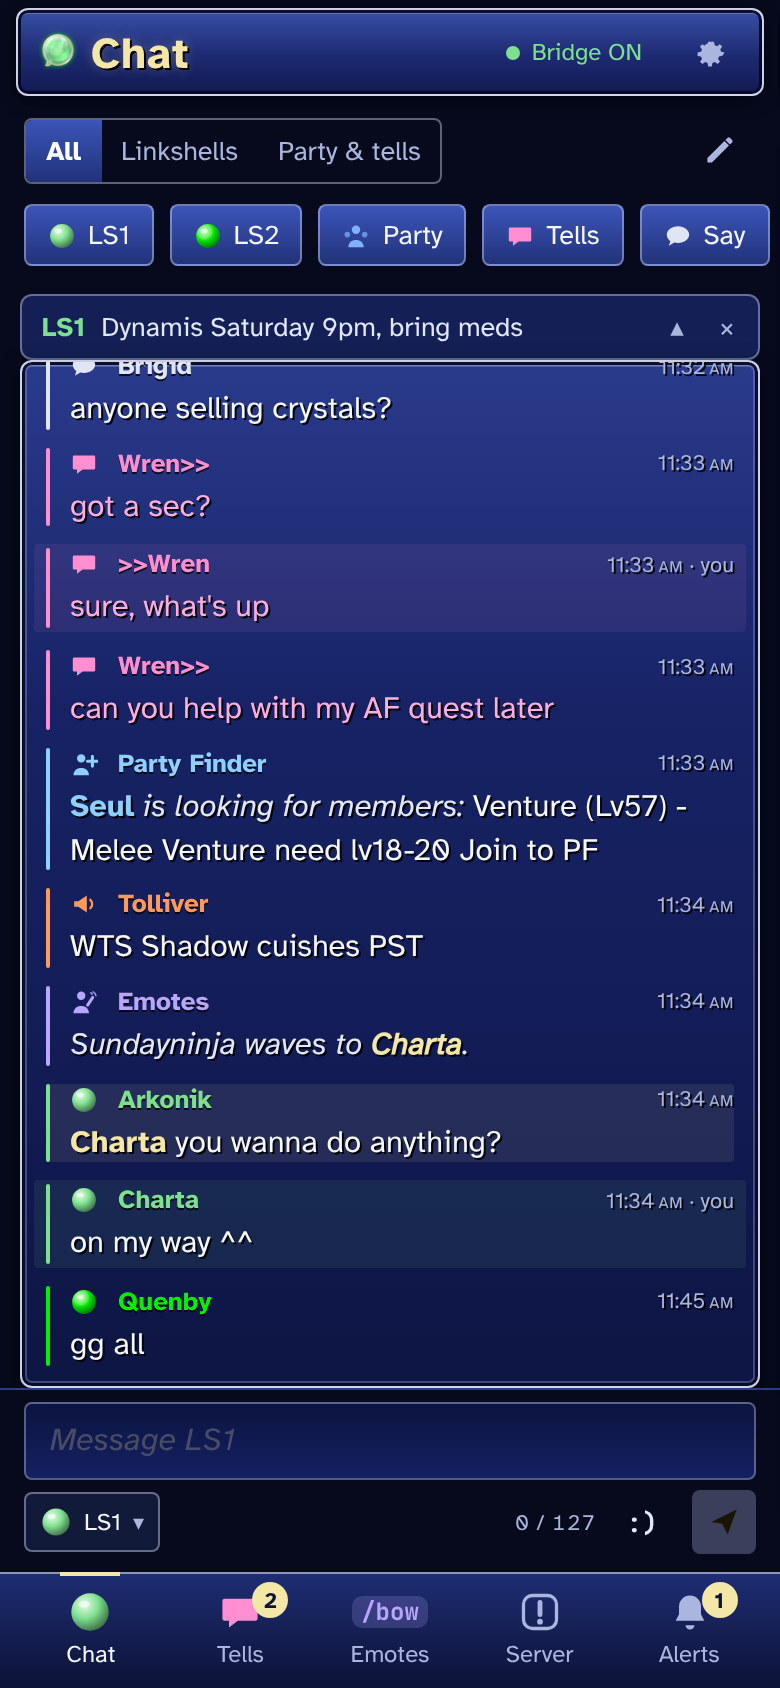
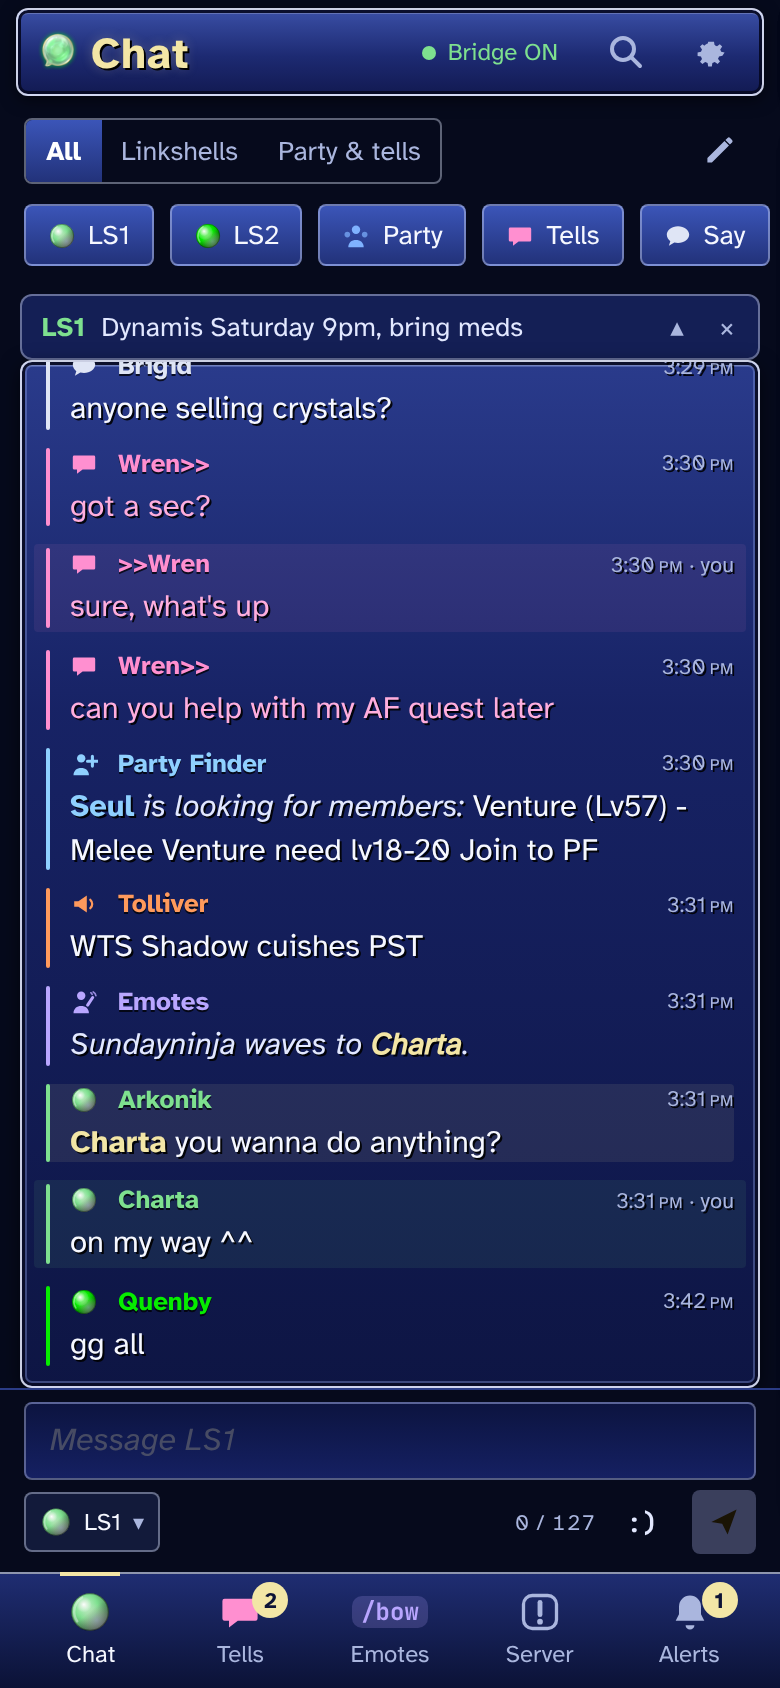
Release prep for 1.1.2: changelog dated, README note and New in 1.1.2, 1.1.1 marked as replaced, fresh screenshots
Claude-Session: https://claude.ai/code/session_01EQHJw41hfgAS7SckUKE71o

diff --git a/tools/screenshots.js b/tools/screenshots.js
@@ -10,12 +10,14 @@ async function page(browser, prefs) {
   const ctx = await browser.newContext({ viewport: { width: W, height: H }, deviceScaleFactor: 2 });
   const p = await ctx.newPage();
   await p.addInitScript(pr => {
-    try { localStorage.setItem("pcxi", JSON.stringify(Object.assign({ savedAt: Date.now() + 1e9, tipSeen: true }, pr))); } catch (e) {}
+    try { localStorage.setItem("pcxi", JSON.stringify(Object.assign({ savedAt: Date.now() + 1e9, tipSeen: true, holdTip: true }, pr))); } catch (e) {}
   }, prefs);
   await p.goto(url);
   await p.waitForSelector("#tab-chat .top");
   await p.evaluate(() => document.fonts.ready);
   await p.waitForTimeout(800);
+  // README shots: dismiss the one-time "Updated" note (each shot is a fresh browser that looks like an upgrade).
+  const ok = await p.$("[data-updok]"); if (ok) { await ok.click(); await p.waitForTimeout(300); }
   return p;
 }
 async function shot(p, name) { await p.waitForTimeout(400); await p.screenshot({ path: out + "/" + name + ".png" }); console.log("  " + name + ".png"); }

diff --git a/README.md b/README.md
@@ -1,9 +1,9 @@
 <p align="center"><img src="docs/header.png" alt="phonechatXI" width="640"></p>
 
 > [!NOTE]
-> **v1.1.0 was reviewed by CatsEyeXI staff and approved** (November 2026).
+> **v1.1.2 is the current version.** It's going through CatsEyeXI's new addon approval process. **v1.1.0 was reviewed by CatsEyeXI staff and approved** (November 2026), and until 1.1.2 is approved, [v1.1.0](https://github.com/charta7/phonechatXI/releases/tag/v1.1.0) is the approved version.
 >
-> **v1.1.1 is waiting on CatsEyeXI approval.** Staff are setting up a new process for approving addons, and 1.1.1 will go through it. It builds on 1.1.0 with fixes, looks and a few phone-side features, reads nothing new from the game, and sends the same lines plus one read-only command from the server's own list (`!moolix`). Until it's approved, [v1.1.0](https://github.com/charta7/phonechatXI/releases/tag/v1.1.0) is the approved version. See the [changelog](CHANGELOG.md).
+> What 1.1.2 changes on the game side, plainly: Auction House sales now reach the phone (from the same server notices it already reads; no new message mode), there's one new command from the server's own list (`!bond`), and every `!` command asks before it sends. Everything else is on the phone. See the [changelog](CHANGELOG.md).
 
 # phonechatXI
 
@@ -39,8 +39,8 @@ Tested on a Steam Deck and on Windows 11, with an iPhone.
 - Views, like the game's chat windows. All, Linkshells and Party & tells are built in, and you can add your own.
 - A Tells tab with a thread per person.
 - Tap a name to start a tell, or a line to reply on its channel. Nothing sends until you press send.
-- Search (1.1.2, not released yet): the magnifier on Chat or Tells finds a name or a word in every channel at once, with a chip per channel to narrow it down. Tap a result to go to that moment, then "Back to live". It only looks through chat the page has already loaded.
-- Catching up (1.1.2, not released yet): a "New" line marks where you left off. Long-press a line to copy it or search for who said it. Tap a mention in Alerts to go to it.
+- Search: the magnifier on Chat or Tells finds a name or a word in every channel at once, with a chip per channel to narrow it down. Tap a result to go to that moment, then "Back to live". It only looks through chat the page has already loaded.
+- Catching up: a "New" line marks where you left off. Long-press a line to copy it or search for who said it. Tap a mention in Alerts to go to it.
 - Linked items (`{{Suppanomimi}}`): on a touch screen, long-press the line and pick "Search BG-Wiki for Suppanomimi" (a tap on the line replies, as usual). On a computer, click the item. Turn on BG-Wiki for all auto-translate in Settings to get the same search for every auto-translate phrase, up to 3 per line.
 - Web addresses in chat show as plain text and never open on a tap. On a touch screen, long-press the line for "Open <site>". It always asks first and shows the site name in bold with the full address under it, so a look-alike stands out. Only `http://`, `https://` and `www.` addresses are offered, never ones with a login in them.
 - Mentions: your name or nicknames (up to 3) are highlighted in chat and collected in Alerts. Emotes and yell don't count.
@@ -50,7 +50,7 @@ Tested on a Steam Deck and on Windows 11, with an iPhone.
 - An Alerts tab: a card per VNM or HVNM with a 10 minute countdown from Populox's first message, then POP!, plus your mentions, Auction House sales, server notices and (if you turn it on) bazaar visits. VNM cards, notices and bazaar visits clear with ×.
 - A `:)` button with your own list of text emoticons. Set them in Settings, or keep the eight defaults.
 - The keyboard doesn't capitalize or autocorrect, so game words like Jeuno or Windurst come through as you typed them. Both can be turned on in Settings.
-- Four skins (Classic, Night, Game and Yunas, an unofficial look inspired by YunaUI), two fonts, a compact layout, text size, 12 or 24-hour time and per-channel colors. Settings are saved on the bridge and can be exported (without your mention names).
+- Four skins (Classic, Night, Game and Yunas, an unofficial look inspired by YunaUI). Each skin keeps its own look (font, layout, times, message colors, channel colors), with a live preview in Settings and a reset back to how it shipped. Text size and 12 or 24-hour time apply on every skin. Settings are saved on the bridge and can be exported (without your mention names).
 
 <p>
   <img src="docs/screenshots/skin-classic.png" width="180" alt="Classic skin">
@@ -79,15 +79,16 @@ Tested on a Steam Deck and on Windows 11, with an iPhone.
 
 What it can send is a fixed list: `/l`, `/l2`, `/p`, `/t`, `/s`, `/sh`, the stock emotes, and the `!` commands in [`bridge/commands.json`](bridge/commands.json). The bridge checks every line, and the addon checks it again against the same list right before typing it. The addon's check is `allowed()` in [`phonechat.lua`](addon/phonechat/phonechat.lua).
 
-## New in 1.1.1
+## New in 1.1.2
 
-- The Yunas skin, an unofficial look inspired by YunaUI.
-- VNM and HVNM cards count down from Populox's first message, show POP!, and stack when several run at once.
-- A full-width message box that grows as you type. Unsent text stays put when you switch channels.
-- Tells in chat read like the game (`Wren>>`, `>>Wren`).
-- The LS1 message of the day shows in full, and you can set your own `:)` emoticons.
+- Search across every channel at once, and a "New" line where you left off.
+- Hold a line for a small menu: copy it, find that person in chat, search BG-Wiki for an item, or open a web address after a confirm screen.
+- Two new skins: Game, which looks like the game's own chat log, and Night, a dimmed one for a dark room. Each skin keeps its own look, with a live preview and a reset.
+- Times can sit in a column, inline at the right of the line, or be off. Linkshell lines show the game's `[1]` and `[2]` in the compact layout.
+- Auction House sales show in Alerts. `!bond` is on the Server tab, and every `!` command asks before it sends.
+- Your settings are kept across updates, with a copy from before the last update you can restore.
 
-The full list, and what 1.1.0 added, is in the [changelog](CHANGELOG.md).
+v1.1.1 was a GitHub-only release, and 1.1.2 replaces it. The full list, including what 1.1.1 and 1.1.0 added, is in the [changelog](CHANGELOG.md).
 
 ## Install
 

diff --git a/CHANGELOG.md b/CHANGELOG.md
@@ -2,7 +2,7 @@
 
 Versioning: a patch (like 1.1.1) is fixes, looks, phone-side changes and new `!` commands from the server's own command list. It reads nothing new from the game. A minor version (like 1.2.0) changes what phonechatXI reads from the game, or sends something that isn't on the server's command list, and goes to staff for review first; it isn't released until they sign off.
 
-## 1.1.2 (in progress, not released)
+## 1.1.2 (November 2026)
 
 Mostly phone-side changes and fixes. Three things change in the addon or what it sends: Auction House sales now reach the phone (from the same server notice messages it already reads; no new message mode), the Server tab can send one new command from the server's own list (`!bond`), and auto-translate is read one block at a time so items keep their links. Everything else it reads and sends is the same as 1.1.1.
 
@@ -80,7 +80,7 @@ Mostly phone-side changes and fixes. Three things change in the addon or what it
 - Importing settings that match a skin's defaults no longer marks the skin as changed.
 - The bridge writes its settings backup to a temp file and checks it before replacing the old one, so a failed copy can't leave a broken backup.
 
-## 1.1.1 (November 2026)
+## 1.1.1 (November 2026, GitHub only; replaced by 1.1.2)
 
 Fixes, looks and a few phone-side features (your own emoticons, drafts, HVNM cards, the Yunas skin). It reads nothing new and sends the same lines as 1.1.0, plus `!moolix` from the server's command list: one kind of line it now reads less of (the first item under Fixes), and LS1's message of the day is sorted differently.
 
